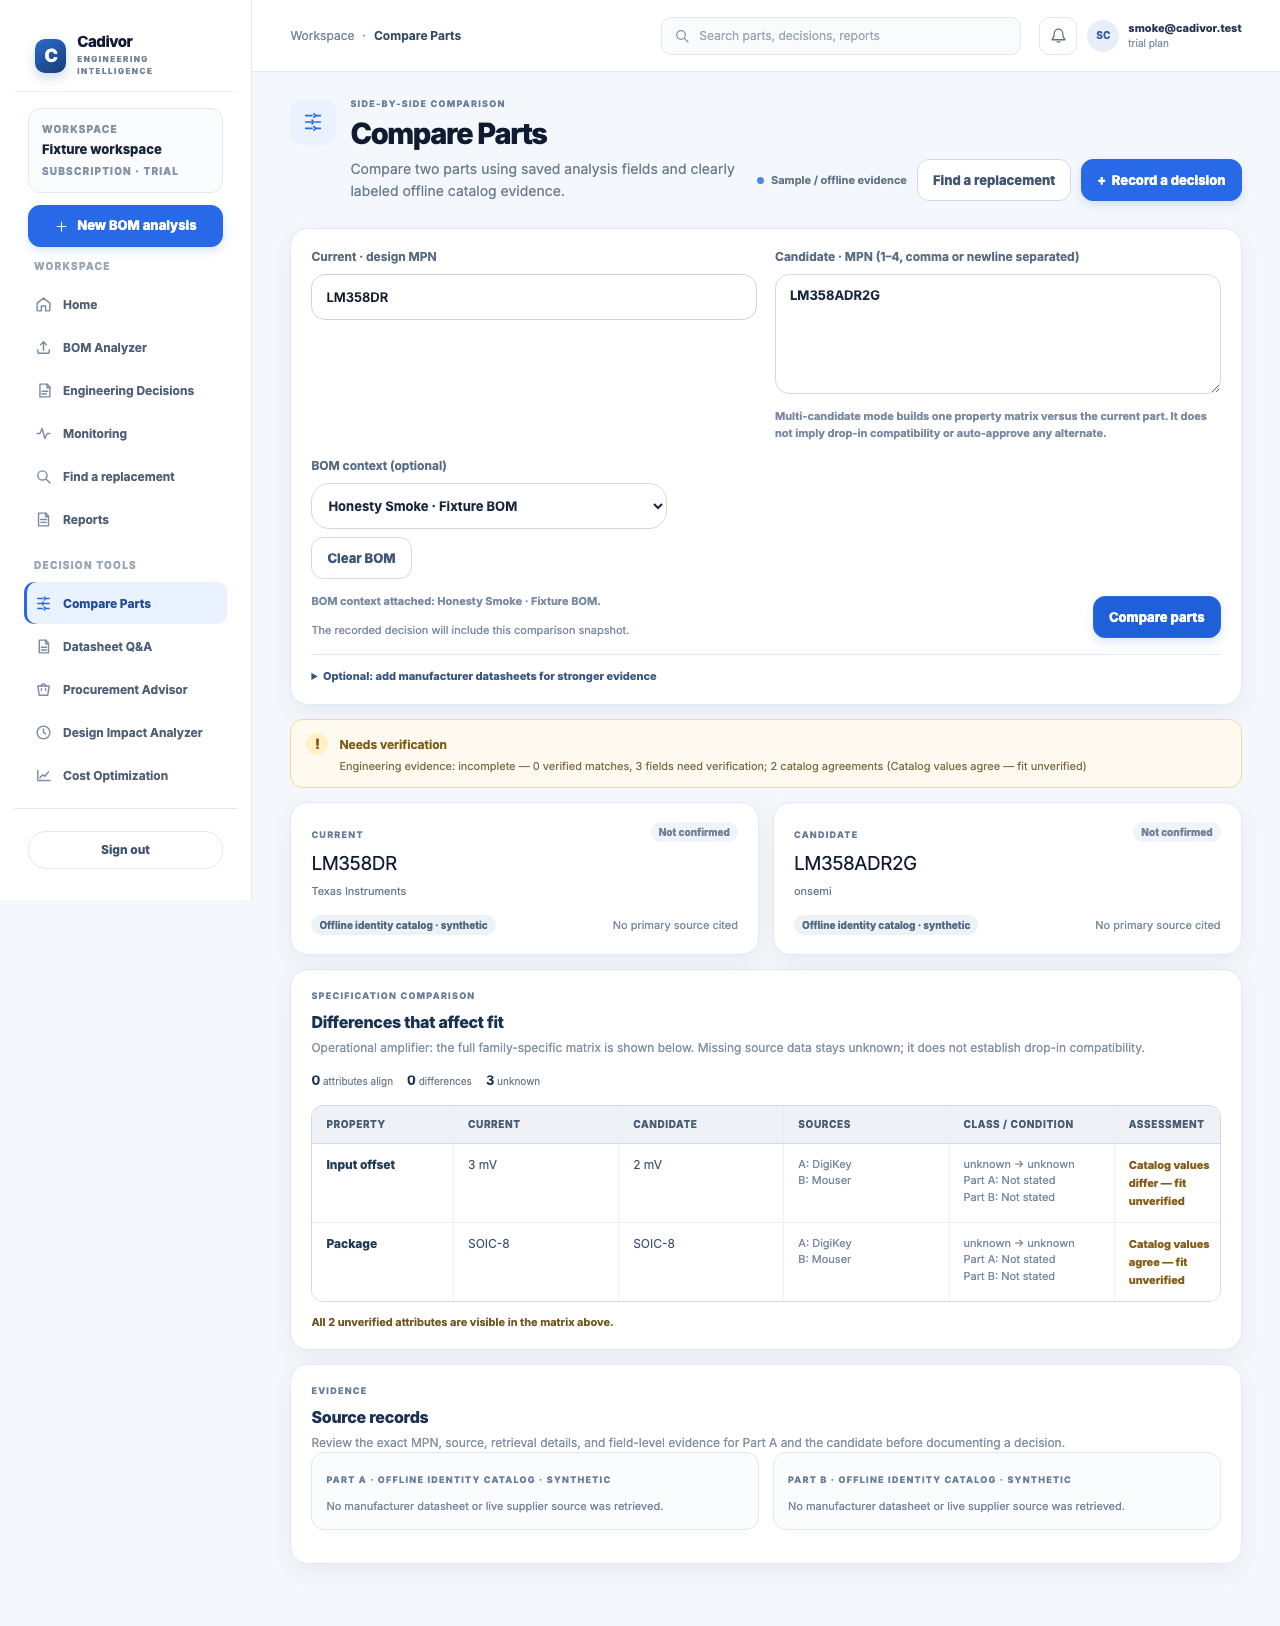
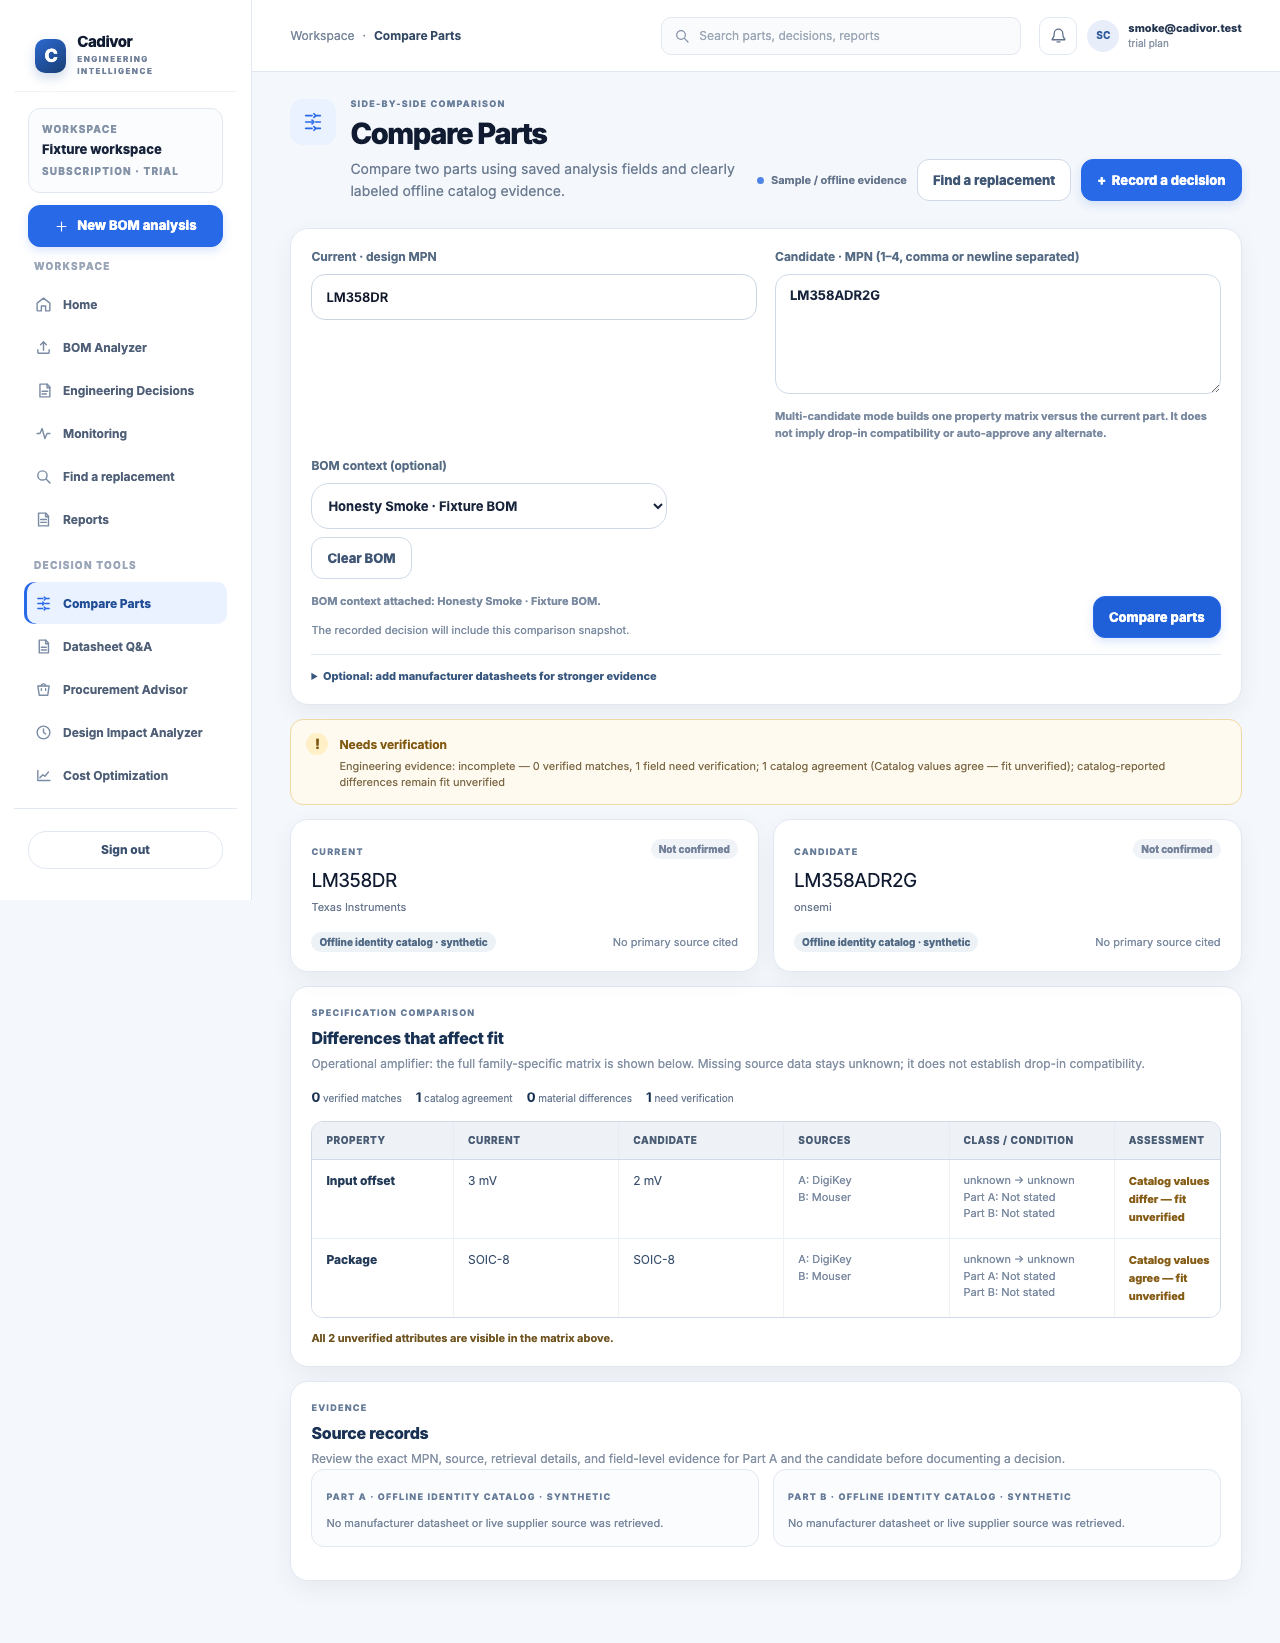
Align Compare KPI strip and fixture counts with provenance assessments.
Banner and matrix catalog agreements were invisible in the strip, and the smoke fixture invented extra unknown/agreement buckets for a two-row matrix. Surface listing agreements with verified/material/need-verification labels and keep catalog diffs counted once.

diff --git a/apps/web/src/app/compare-parts/page.tsx b/apps/web/src/app/compare-parts/page.tsx
@@ -726,9 +726,26 @@ function ComparePartsInner() {
                 </p>
               </div>
               <div className="cv-compare-counts" aria-label="Comparison attribute counts">
-                <span><strong>{text(evidenceCounts.compatible, "0")}</strong> attributes align</span>
-                <span><strong>{text(evidenceCounts.material_difference, "0")}</strong> differences</span>
-                <span><strong>{text(evidenceCounts.needs_data, String(unknownRows.length))}</strong> unknown</span>
+                <span>
+                  <strong>{text(evidenceCounts.compatible, "0")}</strong>{" "}
+                  {Number(evidenceCounts.compatible) === 1 ? "verified match" : "verified matches"}
+                </span>
+                <span>
+                  <strong>{text(evidenceCounts.listing_agreement, "0")}</strong>{" "}
+                  {Number(evidenceCounts.listing_agreement) === 1
+                    ? "catalog agreement"
+                    : "catalog agreements"}
+                </span>
+                <span>
+                  <strong>{text(evidenceCounts.material_difference, "0")}</strong>{" "}
+                  {Number(evidenceCounts.material_difference) === 1
+                    ? "material difference"
+                    : "material differences"}
+                </span>
+                <span>
+                  <strong>{text(evidenceCounts.needs_data, String(unknownRows.length))}</strong>{" "}
+                  need verification
+                </span>
               </div>
             </div>
             {isMultiCompare ? (

diff --git a/tests/test_fr_compare_decision_honesty.py b/tests/test_fr_compare_decision_honesty.py
@@ -284,6 +284,29 @@ class Lm358CompareProvenanceTests(unittest.TestCase):
         )
         self.assertIn("fit unverified", summary.casefold())
 
+    def test_provenance_summary_counts_catalog_diff_once_with_listing(self):
+        """Catalog diffs fold into need-verification once; listings stay separate."""
+        from src.parts_compare import _provenance_aware_evidence_summary
+
+        summary = _provenance_aware_evidence_summary(
+            {
+                "compatible": 0,
+                "listing_agreement": 1,
+                "material_difference": 0,
+                "catalog_difference": 1,
+                "needs_data": 0,
+                "conflicting": 0,
+            },
+            engineering_status="incomplete",
+        )
+        self.assertIn("0 verified matches", summary)
+        self.assertIn("1 field need verification", summary)
+        self.assertIn("1 catalog agreement", summary)
+        self.assertIn("catalog-reported differences remain fit unverified", summary)
+        # Need-verification total must equal folded catalog_diff (not double-counted).
+        self.assertEqual(summary.count("need verification"), 1)
+        self.assertNotRegex(summary, r"\d+ catalog-reported")
+
     def test_missing_sources_stay_needs_verification(self):
         original, candidate = self._lm358_pair(with_catalog_sources=False)
         comparison = build_datasheet_comparison(original, candidate)
@@ -341,6 +364,19 @@ class UiHandoffContractTests(unittest.TestCase):
         self.assertNotIn("setAnalysisId(defaultAnalysis)", page)
         self.assertIn("Clear BOM", page)
         self.assertIn("No BOM — standalone compare", page)
+
+    def test_compare_kpi_strip_surfaces_listing_agreements_not_attributes_align(self):
+        """Banner/matrix catalog agreements must appear in the KPI strip."""
+        page = (
+            Path(__file__).resolve().parents[1]
+            / "apps/web/src/app/compare-parts/page.tsx"
+        ).read_text(encoding="utf-8")
+        self.assertNotIn("attributes align", page)
+        self.assertIn("evidenceCounts.listing_agreement", page)
+        self.assertIn("catalog agreement", page)
+        self.assertIn("verified match", page)
+        self.assertIn("material difference", page)
+        self.assertIn("need verification", page)
 
     def test_find_replacement_never_labels_unverified_qualified(self):
         page = (

diff --git a/tests/harness_fr_compare_decision_browser_smoke.py b/tests/harness_fr_compare_decision_browser_smoke.py
@@ -70,24 +70,27 @@ COMPARE_STANDALONE_FIXTURE = {
     "part_a": "LM358DR",
     "part_b": "LM358ADR2G",
     "finding": "Needs verification",
+    # Counts/summary must match the two matrix rows: 1 catalog agree + 1 catalog
+    # differ (folded into needs_data). Never invent extra unknown/agreement buckets.
     "engineering_evidence_summary": (
         "Engineering evidence: incomplete — 0 verified matches, "
-        "3 fields need verification; 2 catalog agreements "
-        "(Catalog values agree — fit unverified)"
+        "1 field need verification; 1 catalog agreement "
+        "(Catalog values agree — fit unverified); "
+        "catalog-reported differences remain fit unverified"
     ),
     "counts": {
         "compatible": 0,
-        "listing_agreement": 2,
+        "listing_agreement": 1,
         "material_difference": 0,
-        "needs_data": 3,
+        "needs_data": 1,  # catalog_difference folded for UI need-verification KPI
         "conflicting": 0,
         "catalog_difference": 1,
     },
     "internal_status_counts": {
-        "Match": 2,
+        "Match": 1,
         "Listing agreement": 0,
         "Different": 1,
-        "Needs data": 3,
+        "Needs data": 0,
         "Conflicting": 0,
     },
     "rows": [
@@ -230,6 +233,7 @@ def main() -> int:
         page.route("**/reports**", on_route)
         page.route("**/auth/**", on_route)
         page.route("http://127.0.0.1:9999/**", on_route)
+        page.route("http://localhost:9999/**", on_route)
 
         session_json = json.dumps(
             {
@@ -292,6 +296,11 @@ def main() -> int:
         assert "Needs verification" in compare_body
         assert "Catalog values agree — fit unverified" in compare_body or "fit unverified" in compare_body.casefold()
         assert "confirmed matches" not in compare_body.casefold()
+        assert "attributes align" not in compare_body.casefold()
+        # KPI strip must reconcile with banner/matrix (1 catalog agree + 1 need verification).
+        assert "1 catalog agreement" in compare_body.casefold()
+        assert "0 verified matches" in compare_body.casefold()
+        assert "1 need verification" in compare_body.casefold()
         # BOM select should be clearable / default standalone
         bom_select = page.locator("#compare-bom-context")
         assert bom_select.count() == 1

diff --git a/src/parts_compare.py b/src/parts_compare.py
@@ -275,12 +275,18 @@ def _provenance_aware_evidence_summary(
     *,
     engineering_status: str = "",
 ) -> str:
-    """Customer-facing summary derived from Assessment provenance, not raw Status."""
+    """Customer-facing summary derived from Assessment provenance, not raw Status.
+
+    Catalog-reported differences fold into the need-verification total once (same
+    as customer ``counts.needs_data``) and are not restated as a second count.
+    Listing agreements stay a separate unverified bucket.
+    """
     compatible = int(assessment_counts.get("compatible") or 0)
     listing = int(assessment_counts.get("listing_agreement") or 0)
     material = int(assessment_counts.get("material_difference") or 0)
     catalog_diff = int(assessment_counts.get("catalog_difference") or 0)
-    needs = int(assessment_counts.get("needs_data") or 0) + catalog_diff
+    pure_needs = int(assessment_counts.get("needs_data") or 0)
+    needs = pure_needs + catalog_diff
     conflicting = int(assessment_counts.get("conflicting") or 0)
     status = str(engineering_status or "").strip() or "partial"
     if material or conflicting:
@@ -307,12 +313,10 @@ def _provenance_aware_evidence_summary(
             f"; {material} material "
             f"{'difference' if material == 1 else 'differences'}"
         )
+    # Catalog diffs already fold into the need-verification total above — note
+    # provenance once without restating a second numeric count.
     if catalog_diff:
-        summary += (
-            f"; {catalog_diff} catalog-reported "
-            f"{'difference' if catalog_diff == 1 else 'differences'} "
-            "(fit unverified)"
-        )
+        summary += "; catalog-reported differences remain fit unverified"
     return summary
 
 

diff --git a/.evidence_ui/fr_compare_decision_honesty/REPORT.md b/.evidence_ui/fr_compare_decision_honesty/REPORT.md
@@ -5,6 +5,8 @@ Focused honesty fixes for Find Replacement outcomes, catalog vs explicit count r
 
 Follow-up: Verified labels require explicit authoritative fit evidence; Compare customer counts/summary derive from Assessment provenance (raw Status kept in `internal_status_counts`); zero retained substitutions are honored.
 
+KPI follow-up: Compare strip surfaces listing agreements / verified / material / need-verification (no “attributes align”); smoke fixture counts match the two matrix rows; catalog diffs fold into need-verification once.
+
 ## Acceptance
 | Item | Status |
 | --- | --- |
